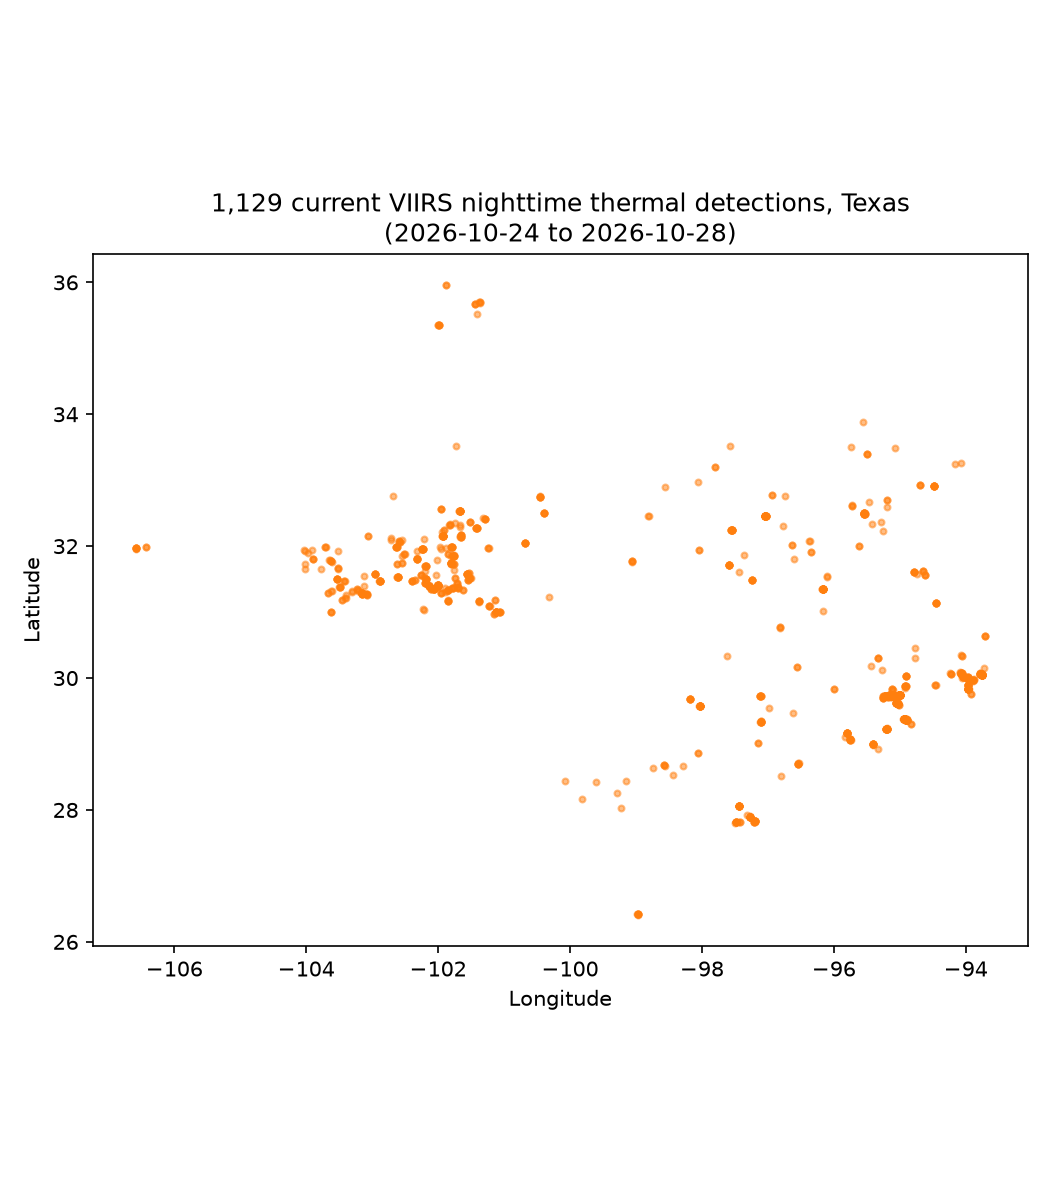
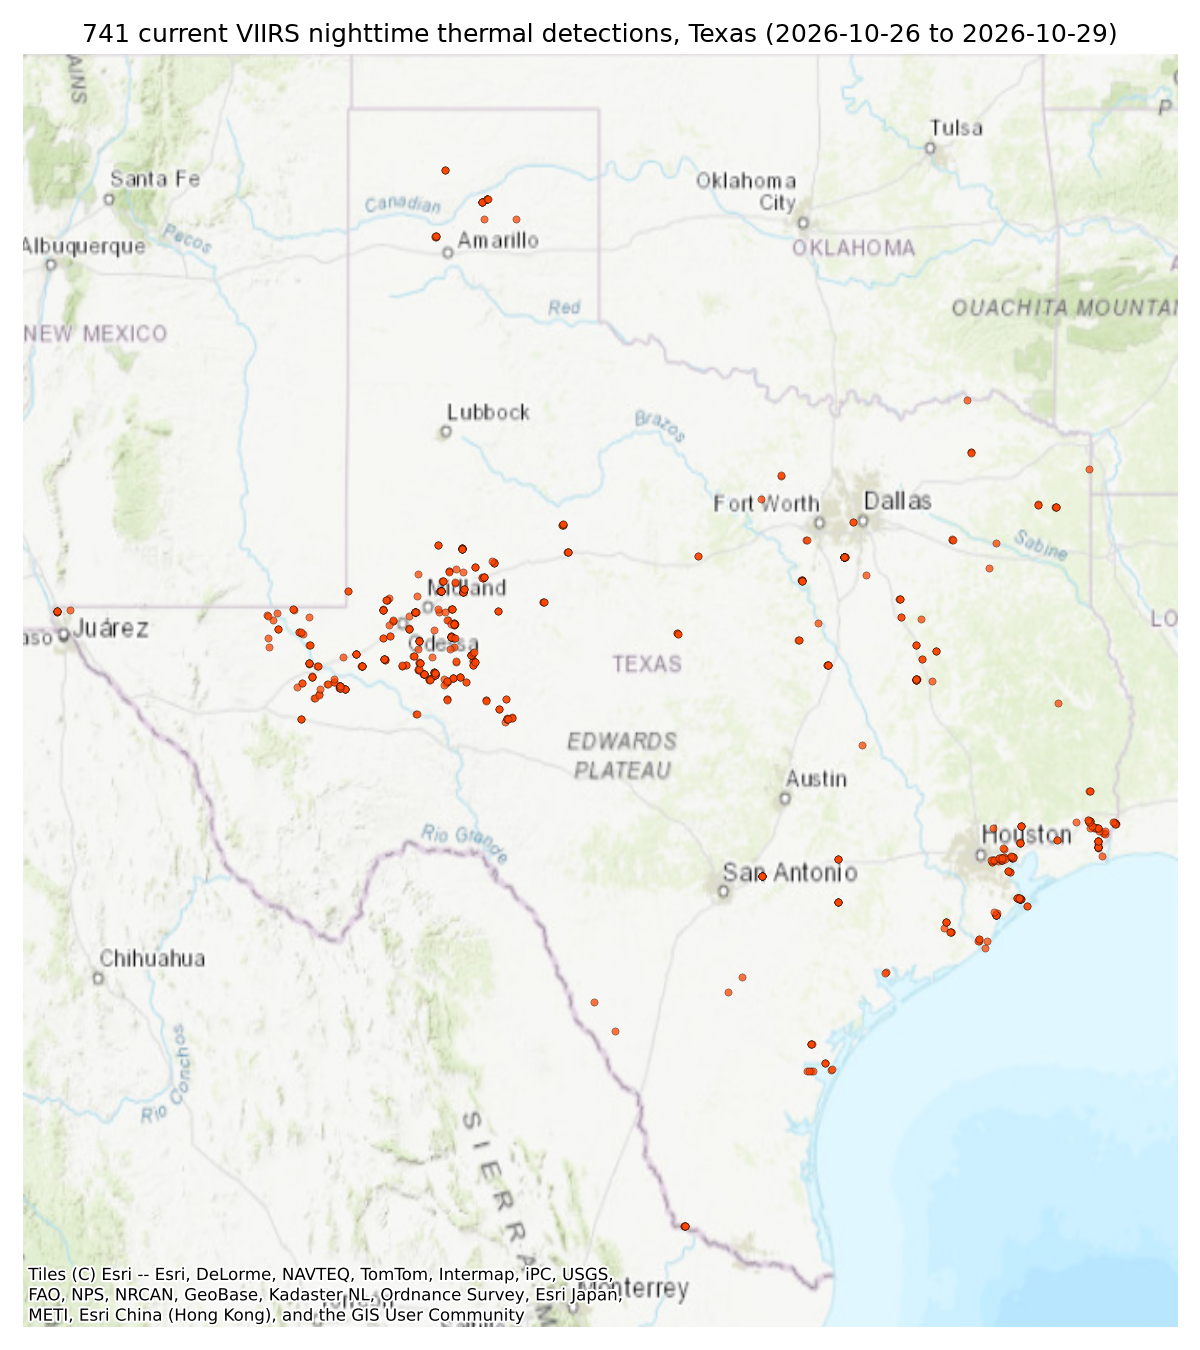
Add real basemaps — state boundaries, rivers, cities, terrain
Both maps were bare lat/lon scatter plots with no geographic context.
Tried three "free" tile providers before finding one that actually
works unauthenticated: CartoDB now requires an API key, and
OpenStreetMap's own Mapnik tiles actively reject library/script
access per their usage policy (osm.wiki/Blocked) — not a bug, a
deliberate restriction. Esri's World Topo tiles are free for this
use and worked immediately.

New scripts/mapping.py holds the shared plotting logic (tuned
differently for the current map's ~700 sparse points vs. the
historical map's 430k dense ones). Permian Basin now visibly sits
right at Midland/Odessa; Eagle Ford runs exactly where it should,
southwest from San Antonio toward the border.

diff --git a/scripts/current_flares.py b/scripts/current_flares.py
@@ -7,11 +7,11 @@ Run scripts/fetch_firms.py first to refresh the data, then this.
 import sys
 from pathlib import Path
 
-import matplotlib.pyplot as plt
 import pandas as pd
 
 sys.path.insert(0, str(Path(__file__).resolve().parent))
 from analyze import nearest_well_operator, MAX_MATCH_KM  # noqa: E402
+from mapping import plot_texas_detections  # noqa: E402
 
 ROOT = Path(__file__).resolve().parent.parent
 RAW_DIR = ROOT / "data" / "raw"
@@ -48,14 +48,12 @@ def main() -> None:
     RESULTS_DIR.mkdir(exist_ok=True)
     leaderboard.to_csv(RESULTS_DIR / "current_top_operators.csv")
 
-    fig, ax = plt.subplots(figsize=(7, 8))
-    ax.scatter(detections["lon_gmtco"], detections["lat_gmtco"], s=8, alpha=0.5, color="tab:orange")
-    ax.set_title(f"{len(detections):,} current VIIRS nighttime thermal detections, Texas\n({date_range})")
-    ax.set_xlabel("Longitude")
-    ax.set_ylabel("Latitude")
-    ax.set_aspect("equal")
-    fig.tight_layout()
-    fig.savefig(RESULTS_DIR / "current_detection_map.png", dpi=150)
+    plot_texas_detections(
+        detections["lon_gmtco"], detections["lat_gmtco"],
+        title=f"{len(detections):,} current VIIRS nighttime thermal detections, Texas ({date_range})",
+        out_path=RESULTS_DIR / "current_detection_map.png",
+        color="orangered",
+    )
     print(f"\nSaved {RESULTS_DIR / 'current_detection_map.png'} and {RESULTS_DIR / 'current_top_operators.csv'}")
 
 

diff --git a/scripts/analyze.py b/scripts/analyze.py
@@ -13,6 +13,8 @@ import numpy as np
 import pandas as pd
 import matplotlib.pyplot as plt
 from pathlib import Path
+
+from mapping import plot_texas_detections
 from sklearn.neighbors import BallTree
 
 MAX_MATCH_KM = 2.0  # don't attribute a detection to a well more than this far away
@@ -69,15 +71,13 @@ def main() -> None:
     print(f"Saved {RESULTS_DIR / 'monthly_trend.png'}")
 
     # --- Map of detection density ---
-    fig2, ax = plt.subplots(figsize=(7, 8))
-    ax.scatter(detections["lon_gmtco"], detections["lat_gmtco"], s=0.5, alpha=0.15, color="tab:red")
     date_range = f"{detections['date_ltz'].min().strftime('%b %Y')}-{detections['date_ltz'].max().strftime('%b %Y')}"
-    ax.set_title(f"{len(detections):,} VIIRS flare detections in Texas, {date_range}")
-    ax.set_xlabel("Longitude")
-    ax.set_ylabel("Latitude")
-    ax.set_aspect("equal")
-    fig2.tight_layout()
-    fig2.savefig(RESULTS_DIR / "detection_map.png", dpi=150)
+    plot_texas_detections(
+        detections["lon_gmtco"], detections["lat_gmtco"],
+        title=f"{len(detections):,} VIIRS flare detections in Texas, {date_range}",
+        out_path=RESULTS_DIR / "detection_map.png",
+        color="red", s=0.6, alpha=0.2, edgecolors="none",
+    )
     print(f"Saved {RESULTS_DIR / 'detection_map.png'}")
 
     # --- Nearest-well operator attribution ---

diff --git a/scripts/mapping.py b/scripts/mapping.py
@@ -1,0 +1,30 @@
+"""Shared basemap plotting for the two detection maps (historical and
+current). Uses Esri's free tile service via contextily — tested against
+three "free" alternatives first: CartoDB now requires an API key,
+OpenStreetMap's own Mapnik tiles actively reject library/script access
+per their usage policy (not a bug — see osm.wiki/Blocked), and Esri's
+World Topo tiles are the one that's actually open for this kind of use.
+"""
+
+from pathlib import Path
+
+import contextily as cx
+import matplotlib.pyplot as plt
+
+TEXAS_XLIM = (-107, -93)
+TEXAS_YLIM = (25.5, 37)
+
+
+def plot_texas_detections(
+    lon, lat, title: str, out_path: Path, color: str = "red",
+    s: float = 12, alpha: float = 0.75, edgecolors: str = "black",
+) -> None:
+    fig, ax = plt.subplots(figsize=(8, 9))
+    ax.scatter(lon, lat, s=s, alpha=alpha, color=color, zorder=5, edgecolors=edgecolors, linewidths=0.2)
+    ax.set_xlim(*TEXAS_XLIM)
+    ax.set_ylim(*TEXAS_YLIM)
+    ax.set_title(title)
+    ax.set_axis_off()
+    cx.add_basemap(ax, crs="EPSG:4326", source=cx.providers.Esri.WorldTopoMap)
+    fig.tight_layout()
+    fig.savefig(out_path, dpi=150)
